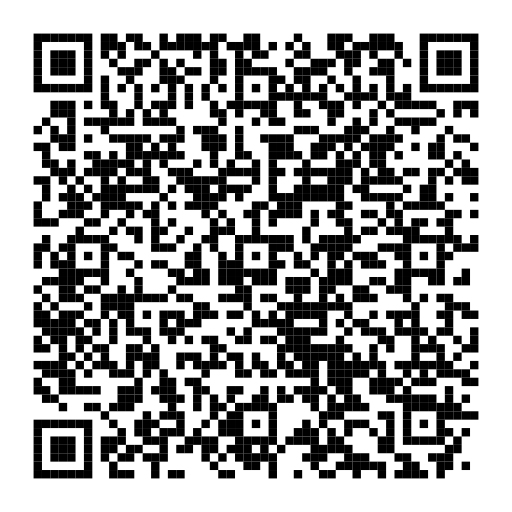
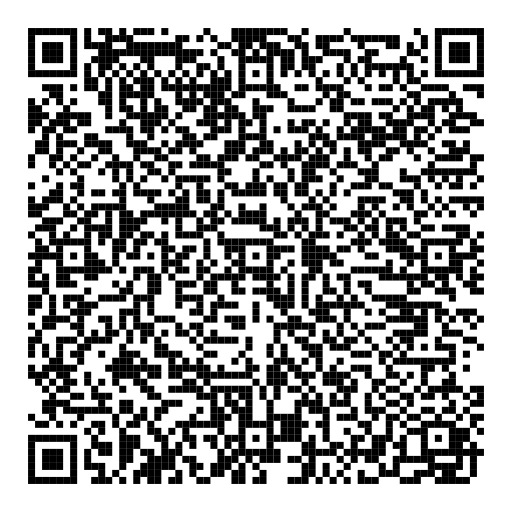
chore: add finder pattern placement to ConsoleApp

diff --git a/samples/ConsoleApp/Program.cs b/samples/ConsoleApp/Program.cs
@@ -4,7 +4,7 @@ using SkiaSharp.QrCode.Image;
 
 Console.OutputEncoding = System.Text.Encoding.UTF8;
 
-var content = "https://github.com/guitarrapc/SkiaSharp.QrCode/blob/main/README.md?foo=sample&bar=dummy";
+var content = "https://github.com/guitarrapc/SkiaSharp.QrCode/releases/tag/0.10.0?a=5119e6a88a83ae5db1469b66692890775c90b479&b=5119e6a88a83ae5db1469b66692890775c90b479";
 var outputDir = "bin/output";
 var iconPath = "samples/test.png";
 var iconInstaPath = "samples/insta.png";
@@ -350,18 +350,40 @@ Console.WriteLine("""
 }
 Console.WriteLine();
 
+// Use Rounded Rectangle for finder patterns
+Console.WriteLine("""
+    Pattern 13: Rounded Rectangle for Finder Patterns
+      - Best for: Stylish finder patterns with rounded corners
+      - API: QRCodeImageBuilder().WithFinderPatternShape()
+    """);
+{
+    var path = Path.Combine(outputDir, "pattern13_finderpattern_rounded_rectangle.png");
+
+    var pngBytes = new QRCodeImageBuilder(content)
+        .WithSize(512, 512)
+        .WithFinderPatternShape(RectangleFinderPatternShape.Default)
+        //.WithFinderPatternShape(CircleFinderPatternShape.Default)
+        //.WithFinderPatternShape(RoundedRectangleFinderPatternShape.Default)
+        //.WithFinderPatternShape(RoundedRectangleCircleFinderPatternShape.Default)
+        .ToByteArray();
+
+    File.WriteAllBytes(path, pngBytes);
+
+    Console.WriteLine($"  ✓ Saved to: {path}");
+}
+Console.WriteLine();
+
 // Instagram-style Profile QR Code
 Console.WriteLine("""
-    Pattern 13: Instagram-style Profile QR Code
+    Pattern 14: Instagram-style Profile QR Code
       - Best for: Demonstrating complex styling
       - API: QRCodeImageBuilder with gradient + icon + custom styling
     """);
 {
-    var path = Path.Combine(outputDir, "pattern13_instagram_style.png");
+    var path = Path.Combine(outputDir, "pattern14_instagram_style.png");
 
     // Instagram gradient colors (orange -> pink -> purple)
-    var instagramGradient = new GradientOptions(
-        [
+    var instagramGradient = new GradientOptions([
             SKColor.Parse("FCAF45"),  // Orange
             SKColor.Parse("F77737"),  // Orange-Red
             SKColor.Parse("E1306C"),  // Pink
@@ -377,8 +399,8 @@ Console.WriteLine("""
     var icon = new IconData
     {
         Icon = logo,
-        IconSizePercent = 15,
-        IconBorderWidth = 20,
+        IconSizePercent = 14,
+        IconBorderWidth = 5,
     };
 
     var qrBuilder = new QRCodeImageBuilder(content)
@@ -389,6 +411,7 @@ Console.WriteLine("""
             backgroundColor: SKColors.White,
             clearColor: SKColors.White)
         .WithModuleShape(CircleModuleShape.Default, sizePercent: 0.95f)
+        .WithFinderPatternShape(RoundedRectangleCircleFinderPatternShape.Default)
         .WithGradient(instagramGradient)
         .WithIcon(icon);
 
@@ -401,12 +424,12 @@ Console.WriteLine();
 
 // Instagram-style with custom frame and text
 Console.WriteLine("""
-    Pattern 14: Instagram-style with Custom Frame
+    Pattern 15: Instagram-style with Custom Frame
       - Best for: Branded QR codes with text overlay
       - API: QRCodeRenderer + Custom canvas drawing
     """);
 {
-    var path = Path.Combine(outputDir, "pattern14_instagram_frame.png");
+    var path = Path.Combine(outputDir, "pattern15_instagram_frame.png");
 
     // Create larger canvas for frame
     var canvasSize = 1200;
@@ -456,15 +479,14 @@ Console.WriteLine("""
         var qrData = QRCodeGenerator.CreateQrCode(content, ECCLevel.H, quietZoneSize: 2);
 
         // Instagram gradient
-        var instagramGradient = new GradientOptions(
-            [
-                SKColor.Parse("FCAF45"),
-                SKColor.Parse("F77737"),
-                SKColor.Parse("E1306C"),
-                SKColor.Parse("C13584"),
-                SKColor.Parse("833AB4")
+        var instagramGradient = new GradientOptions([
+                SKColor.Parse("FCAF45"),  // Orange
+                SKColor.Parse("F77737"),  // Orange-Red
+                SKColor.Parse("E1306C"),  // Pink
+                SKColor.Parse("C13584"),  // Purple
+                SKColor.Parse("833AB4")   // Deep Purple
             ],
-            GradientDirection.BottomLeftToTopRight,
+            GradientDirection.TopLeftToBottomRight,
             [0f, 0.25f, 0.5f, 0.75f, 1f]);
 
         // Render QR code
@@ -473,7 +495,7 @@ Console.WriteLine("""
         {
             Icon = logo,
             IconSizePercent = 15,
-            IconBorderWidth = 20,
+            IconBorderWidth = 4,
         };
 
         var qrRect = SKRect.Create(sidePadding, topPadding, qrSize, qrSize);
@@ -486,7 +508,8 @@ Console.WriteLine("""
             iconData: icon,
             moduleShape: CircleModuleShape.Default,
             moduleSizePercent: 0.95f,
-            gradientOptions: instagramGradient);
+            gradientOptions: instagramGradient,
+            finderPatternShape: RoundedRectangleCircleFinderPatternShape.Default);
     }
 
     // Draw bottom text
@@ -503,7 +526,7 @@ Console.WriteLine("""
         })
         using (var paint = new SKPaint
         {
-            Color = SKColors.DarkOrange,
+            Color = SKColors.OrangeRed,
             IsAntialias = true
         })
         {
@@ -516,7 +539,7 @@ Console.WriteLine("""
                 titleFont,
                 paint);
 
-            var usernameText = "BY SKIASHARP.QRCODE";
+            var usernameText = "@SKIASHARP.QRCODE";
             var usernameWidth = appFont.MeasureText(usernameText);
             canvas.DrawText(usernameText,
                 (canvasSize - usernameWidth) / 2,
@@ -539,7 +562,7 @@ Console.WriteLine();
 
 // Console Output of QR Code
 Console.WriteLine("""
-    Pattern 15: Console Output of QR Code
+    Pattern 16: Console Output of QR Code
       - Best for: Quick visual verification in console
       - API: QRCodeGenerator.CreateQrCode() + Console.Write()
     """);
@@ -554,6 +577,7 @@ Console.WriteLine("""
         Console.Write("\n");
     }
 }
+Console.WriteLine();
 
 Console.WriteLine("=== All patterns completed! ===");
 Console.WriteLine($"Output directory: {Path.GetFullPath(outputDir)}");

diff --git a/README.md b/README.md
@@ -17,7 +17,7 @@ Many existing QR code libraries rely on System.Drawing, which has well-known GDI
 You can create professional-looking QR codes like this with just a few lines of code:
 
 <p float="left">
-  <img src="samples/ConsoleApp/samples/pattern14_instagram_frame.png" width="250" alt="Instagram-style"/>
+  <img src="samples/ConsoleApp/samples/pattern15_instagram_frame.png" width="250" alt="Instagram-style"/>
   <img src="samples/ConsoleApp/samples/pattern6_builder_gradient.png" width="250" alt="Gradient QR"/>
   <img src="samples/ConsoleApp/samples/pattern7_builder_icon.png" width="250" alt="Icon QR"/>
 </p>
